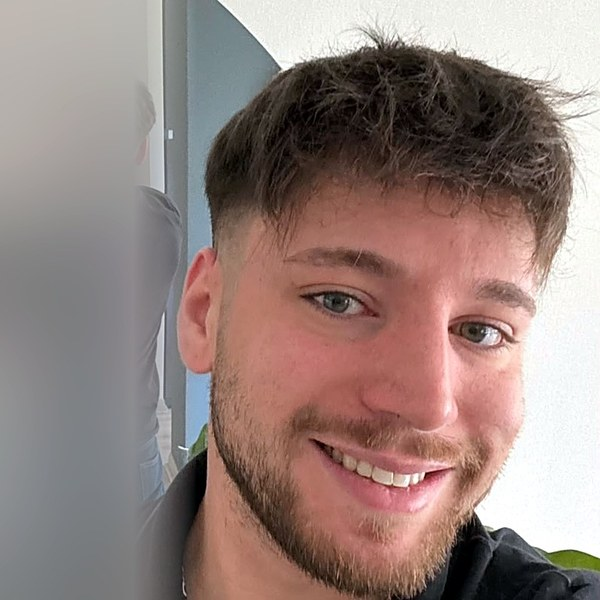
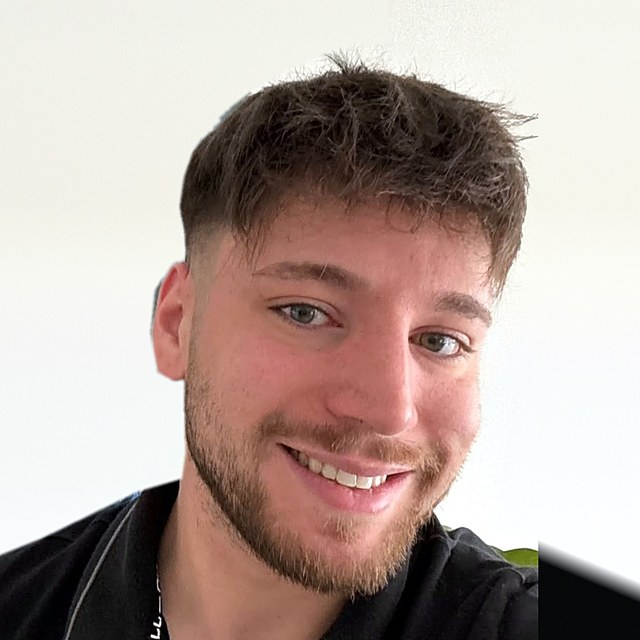
Sitio: foto limpia, correo, APIs, automatizacion, Summit y nuevo nombre del POS

diff --git a/index.html b/index.html
@@ -18,7 +18,7 @@
 <link rel="icon" type="image/png" sizes="32x32" href="favicon-32.png">
 <link rel="apple-touch-icon" href="favicon-192.png">
 <script type="application/ld+json">
-{"@context":"https://schema.org","@type":"Person","name":"Nicolás Brill","jobTitle":"Ingeniero Informático","url":"https://nibrill.github.io/","image":"https://nibrill.github.io/nicolas.jpg","sameAs":["https://github.com/nibrill","https://www.linkedin.com/in/nicolas-brill","https://coreconsulting.cl"],"worksFor":{"@type":"Organization","name":"Core Consulting","url":"https://coreconsulting.cl"},"address":{"@type":"PostalAddress","addressCountry":"CL"},"knowsAbout":["Python","Django","Angular","Ionic","Laravel","PostgreSQL","MySQL","Oracle PL/SQL","Inteligencia Artificial"]}
+{"@context":"https://schema.org","@type":"Person","name":"Nicolás Brill","jobTitle":"Ingeniero Informático","url":"https://nibrill.github.io/","email":"mailto:contacto@coreconsulting.cl","image":"https://nibrill.github.io/nicolas.jpg","sameAs":["https://github.com/nibrill","https://www.linkedin.com/in/nicolas-brill","https://coreconsulting.cl"],"worksFor":{"@type":"Organization","name":"Core Consulting","url":"https://coreconsulting.cl"},"address":{"@type":"PostalAddress","addressCountry":"CL"},"knowsAbout":["APIs REST","Automatización de procesos","Python","Django","Angular","Ionic","Laravel","PostgreSQL","MySQL","Oracle PL/SQL","Inteligencia Artificial"]}
 </script>
 <script>
 try{var t=localStorage.getItem('theme');if(t==='light'||t==='dark')document.documentElement.setAttribute('data-theme',t)}catch(e){}
@@ -91,7 +91,7 @@ h1 em{font-style:normal;background:linear-gradient(90deg,var(--link),var(--accen
 .btn.small{padding:9px 18px;font-size:.92rem;border-radius:10px}
 .hero-photo{position:relative;width:min(330px,70vw);aspect-ratio:1;justify-self:center}
 .hero-photo .me{width:100%;height:100%;object-fit:cover;border-radius:50%;border:4px solid var(--accent);box-shadow:0 0 0 12px var(--glow),0 30px 80px -24px var(--accent)}
-.hero-photo .badge-logo{position:absolute;right:-4px;bottom:8px;width:88px;background:#fff;border-radius:22px;padding:12px;box-shadow:0 14px 30px -8px rgba(0,0,0,.45)}
+.hero-photo .badge-logo{position:absolute;right:-6px;bottom:-2px;width:74px;background:#fff;border-radius:22px;padding:12px;box-shadow:0 14px 30px -8px rgba(0,0,0,.45)}
 .hero-photo .chip{position:absolute;left:-10px;top:14%;background:var(--card);border:1px solid var(--cardb);border-radius:12px;padding:8px 12px;font-size:.8rem;font-weight:600;box-shadow:0 12px 30px -14px rgba(0,0,0,.5)}
 .hero-photo .chip.b{left:auto;right:-14px;top:auto;bottom:34%}
 
@@ -111,6 +111,7 @@ section.alt{background:var(--bg2)}
 h2{font-size:clamp(1.8rem,4vw,2.6rem);margin:8px 0 14px;letter-spacing:-.02em;line-height:1.15;font-weight:800}
 .sub{color:var(--muted);max-width:640px;margin:0 0 40px;font-size:1.05rem}
 .grid{display:grid;grid-template-columns:repeat(auto-fit,minmax(280px,1fr));gap:18px}
+.grid.three{grid-template-columns:repeat(auto-fit,minmax(290px,1fr))}
 .grid.four{grid-template-columns:repeat(auto-fit,minmax(230px,1fr))}
 .card{background:var(--card);border:1px solid var(--cardb);border-radius:18px;padding:26px;transition:transform .25s,border-color .25s,box-shadow .25s}
 .card:hover{transform:translateY(-4px);border-color:var(--accent);box-shadow:0 20px 44px -22px var(--accent)}
@@ -138,6 +139,9 @@ a.card{color:inherit;display:block}
 .card.proj:hover .thumb img{transform:scale(1.05)}
 .kind{position:absolute;left:12px;top:12px;font-size:.72rem;font-weight:700;letter-spacing:.06em;padding:4px 12px;border-radius:99px;background:rgba(7,13,28,.8);color:#fff;backdrop-filter:blur(6px)}
 .lic{position:absolute;right:12px;top:12px;font-size:.72rem;font-weight:700;padding:4px 10px;border-radius:99px;background:rgba(53,214,160,.9);color:#04281c}
+.thumb.nopic{display:grid;place-items:center;background:linear-gradient(135deg,#0a1226,#1e4a8a 60%,#2a78e4)}
+.mtn{font-size:4.2rem;filter:drop-shadow(0 8px 20px rgba(0,0,0,.4))}
+.lic.own{background:rgba(124,196,255,.92);color:#0a1226}
 .pbody{padding:22px;display:flex;flex-direction:column;flex:1}
 .pbody p{flex:1}
 .pbtns{display:flex;gap:10px;margin-top:18px;flex-wrap:wrap}
@@ -219,19 +223,17 @@ footer{border-top:1px solid var(--cardb);padding:44px 0 30px;color:var(--muted);
     <div>
       <span class="eyebrow"><i></i> Disponible para proyectos</span>
       <h1>Nicolás <em>Brill</em></h1>
-      <p class="role">Ingeniero Informático <span>· Fundador de Core Consulting</span></p>
-      <p class="lead">Convierto procesos de negocio en software: <b>sistemas de gestión, aplicaciones web, móviles y de escritorio</b>, con bases de datos sólidas y <b>la IA como ventaja</b> para entregar más rápido y con mejor calidad.</p>
+      <p class="role">Ingeniero Informático <span>· Fundador de Core Consulting · Creador de Summit</span></p>
+      <p class="lead">Convierto procesos de negocio en software: <b>sistemas de gestión, aplicaciones web, móviles y de escritorio</b>, con <b>APIs, procesos automatizados</b>, bases de datos sólidas y <b>la IA como ventaja</b> para entregar más rápido y con mejor calidad.</p>
       <div class="btns">
-        <a class="btn primary" href="#contacto">Hablemos →</a>
+        <a class="btn primary" href="mailto:contacto@coreconsulting.cl">Escríbeme →</a>
         <a class="btn" href="#proyectos">Ver proyectos</a>
         <a class="btn" href="https://github.com/nibrill" rel="noopener">GitHub</a>
       </div>
     </div>
     <div class="hero-photo">
       <img class="me" src="nicolas.jpg" alt="Retrato de Nicolás Brill" width="330" height="330" fetchpriority="high">
-      <span class="chip">🐍 Python · SQL</span>
-      <span class="chip b">🤖 IA aplicada</span>
-      <img class="badge-logo" src="mark.png" alt="Logo de Core Consulting" width="64" height="71">
+      <img class="badge-logo" src="mark.png" alt="Logo de Core Consulting" width="52" height="58">
     </div>
   </div>
 </header>
@@ -252,11 +254,13 @@ footer{border-top:1px solid var(--cardb);padding:44px 0 30px;color:var(--muted);
       <h2>Software a medida, de punta a punta</h2>
       <p class="sub">Desde el modelo de datos hasta la interfaz: diseño, desarrollo, puesta en marcha y mantención.</p>
     </div>
-    <div class="grid four">
+    <div class="grid three">
       <div class="card rv"><div class="ico" aria-hidden="true">🧾</div><h3>Sistemas de gestión</h3><p>ERP, POS, inventario, facturación y reportes adaptados a cómo trabaja tu empresa.</p></div>
       <div class="card rv"><div class="ico" aria-hidden="true">🌐</div><h3>Aplicaciones web</h3><p>Plataformas y APIs con Angular, Django y Laravel, rápidas y mantenibles.</p></div>
       <div class="card rv"><div class="ico" aria-hidden="true">📱</div><h3>Apps móviles</h3><p>Aplicaciones híbridas con Ionic y Angular para iOS y Android desde un solo código.</p></div>
       <div class="card rv"><div class="ico" aria-hidden="true">🗄</div><h3>Bases de datos</h3><p>Modelamiento, optimización y PL/SQL en PostgreSQL, MySQL, SQL Server y Oracle.</p></div>
+      <div class="card rv"><div class="ico" aria-hidden="true">🔌</div><h3>APIs e integraciones</h3><p>Diseño y consumo de APIs REST para conectar sistemas, pasarelas, servicios externos y tus propias aplicaciones.</p></div>
+      <div class="card rv"><div class="ico" aria-hidden="true">⚙</div><h3>Procesos automatizados</h3><p>Flujos que trabajan solos: sincronización de datos, reportes, notificaciones y tareas repetitivas sin intervención manual.</p></div>
     </div>
   </div>
 </section>
@@ -265,8 +269,8 @@ footer{border-top:1px solid var(--cardb);padding:44px 0 30px;color:var(--muted);
   <div class="wrap">
     <div class="rv">
       <div class="kicker">Portafolio</div>
-      <h2>Proyectos públicos</h2>
-      <p class="sub">Sistemas que he desarrollado y dejo abiertos (MIT) para que cualquiera los use o aprenda de ellos.</p>
+      <h2>Proyectos</h2>
+      <p class="sub">Productos propios y sistemas open source (MIT) que he desarrollado y dejo abiertos para que cualquiera los use o aprenda de ellos.</p>
     </div>
     <div class="filters rv" role="group" aria-label="Filtrar proyectos">
       <button class="fbtn" type="button" data-f="all" aria-pressed="true">Todos</button>
@@ -276,13 +280,21 @@ footer{border-top:1px solid var(--cardb);padding:44px 0 30px;color:var(--muted);
       <button class="fbtn" type="button" data-f="db" aria-pressed="false">Bases de datos</button>
     </div>
     <div class="projects" id="projects">
-      <article class="card proj rv" data-k="desktop">
-        <a class="thumb" href="https://github.com/nibrill/corepos-community" rel="noopener"><img src="img/corepos.jpg" alt="Captura del panel de CorePOS Community" width="900" height="563" loading="lazy"><span class="kind">Escritorio</span><span class="lic">MIT</span></a>
+      <article class="card proj rv" data-k="mobile">
+        <div class="thumb nopic" aria-hidden="true"><span class="mtn">⛰</span><span class="kind">App móvil</span><span class="lic own">Creación propia</span></div>
         <div class="pbody">
-          <h3>CorePOS Community</h3>
+          <h3>Summit — app de trekking</h3>
+          <p>Aplicación de trekking creada por mí. Un producto propio, de la idea al desarrollo, pensado para quienes salen a la montaña.</p>
+          <div class="tags"><span class="tag">App móvil</span><span class="tag">Producto propio</span></div>
+        </div>
+      </article>
+      <article class="card proj rv" data-k="desktop">
+        <a class="thumb" href="https://github.com/nibrill/sistema-punto-de-venta-open-source-code" rel="noopener"><img src="img/corepos.jpg" alt="Captura del panel del Sistema Punto de Venta Open Source Code" width="900" height="563" loading="lazy"><span class="kind">Escritorio</span><span class="lic">MIT</span></a>
+        <div class="pbody">
+          <h3>Sistema Punto de Venta Open Source Code</h3>
           <p>Punto de venta de escritorio para pymes con IVA 19 % (Chile): ventas, caja, inventario, compras, reportes, roles y API para escáner móvil.</p>
           <div class="tags"><span class="tag">Python</span><span class="tag">PySide6</span><span class="tag">MySQL</span><span class="tag">FastAPI</span></div>
-          <div class="pbtns"><a class="btn small primary" href="https://github.com/nibrill/corepos-community" rel="noopener">Ver código</a></div>
+          <div class="pbtns"><a class="btn small primary" href="https://github.com/nibrill/sistema-punto-de-venta-open-source-code" rel="noopener">Ver código</a></div>
         </div>
       </article>
       <article class="card proj rv" data-k="web">
@@ -322,7 +334,7 @@ footer{border-top:1px solid var(--cardb);padding:44px 0 30px;color:var(--muted);
         </div>
       </article>
     </div>
-    <p class="note rv">Además desarrollo sistemas privados y a medida para clientes desde <a href="https://coreconsulting.cl" rel="noopener">Core Consulting</a>, incluida la edición comercial de CorePOS con facturación electrónica.</p>
+    <p class="note rv">Además desarrollo sistemas privados y a medida para clientes desde <a href="https://coreconsulting.cl" rel="noopener">Core Consulting</a>, incluida una edición comercial de mi sistema de punto de venta con facturación electrónica.</p>
   </div>
 </section>
 
@@ -358,7 +370,7 @@ footer{border-top:1px solid var(--cardb);padding:44px 0 30px;color:var(--muted);
       <div class="card rv"><h3>Apps de escritorio y móvil</h3><div class="tags"><span class="tag">PySide6 / Qt</span><span class="tag">Ionic</span><span class="tag">Apps offline-first</span><span class="tag">PyInstaller</span><span class="tag">Instaladores Windows</span></div></div>
       <div class="card rv"><h3>Datos y reportes</h3><div class="tags"><span class="tag">matplotlib</span><span class="tag">openpyxl</span><span class="tag">ReportLab</span><span class="tag">Exportación a Excel</span><span class="tag">Dashboards</span></div></div>
       <div class="card rv"><h3>DevOps y despliegue</h3><div class="tags"><span class="tag">Docker</span><span class="tag">Docker Compose</span><span class="tag">GitHub Actions</span><span class="tag">CI/CD</span><span class="tag">GitHub Pages</span><span class="tag">Linux</span></div></div>
-      <div class="card rv"><h3>Arquitectura y buenas prácticas</h3><div class="tags"><span class="tag">APIs REST</span><span class="tag">Roles y permisos</span><span class="tag">Seguridad web</span><span class="tag">Tests automáticos</span><span class="tag">Documentación</span></div></div>
+      <div class="card rv"><h3>Arquitectura y buenas prácticas</h3><div class="tags"><span class="tag">APIs REST</span><span class="tag">Integración de APIs</span><span class="tag">Webhooks</span><span class="tag">Automatización de procesos</span><span class="tag">Tareas programadas</span><span class="tag">Roles y permisos</span><span class="tag">Seguridad web</span><span class="tag">Tests automáticos</span><span class="tag">Documentación</span></div></div>
       <div class="card rv"><h3>Herramientas</h3><div class="tags"><span class="tag">Git</span><span class="tag">GitHub</span><span class="tag">Entornos virtuales</span><span class="tag">Variables de entorno</span><span class="tag">Claude Code</span><span class="tag">IA generativa</span><span class="tag">Prompt engineering</span></div></div>
     </div>
   </div>
@@ -410,6 +422,7 @@ footer{border-top:1px solid var(--cardb);padding:44px 0 30px;color:var(--muted);
       <p class="sub">Cuéntame qué necesitas y vemos cómo hacerlo realidad.</p>
     </div>
     <div class="contact">
+      <a class="card rv" href="mailto:contacto@coreconsulting.cl"><div class="ico" aria-hidden="true">✉</div><div><h3>Correo</h3><p>contacto@coreconsulting.cl</p></div></a>
       <a class="card rv" href="https://coreconsulting.cl" rel="noopener"><div class="ico" aria-hidden="true">🏢</div><div><h3>Core Consulting</h3><p>coreconsulting.cl</p></div></a>
       <a class="card rv" href="https://www.linkedin.com/in/nicolas-brill" rel="noopener"><div class="ico" aria-hidden="true">🔗</div><div><h3>LinkedIn</h3><p>in/nicolas-brill</p></div></a>
       <a class="card rv" href="https://github.com/nibrill" rel="noopener"><div class="ico" aria-hidden="true">💻</div><div><h3>GitHub</h3><p>github.com/nibrill</p></div></a>
@@ -426,7 +439,7 @@ footer{border-top:1px solid var(--cardb);padding:44px 0 30px;color:var(--muted);
         <div>Ingeniero Informático · Fundador de Core Consulting</div>
       </div>
       <div class="flinks">
-        <a href="#proyectos">Proyectos</a><a href="#ia">IA</a><a href="#stack">Tecnologías</a><a href="https://github.com/nibrill" rel="noopener">GitHub</a><a href="https://www.linkedin.com/in/nicolas-brill" rel="noopener">LinkedIn</a><a href="https://coreconsulting.cl" rel="noopener">Core Consulting</a>
+        <a href="mailto:contacto@coreconsulting.cl">contacto@coreconsulting.cl</a><a href="#proyectos">Proyectos</a><a href="#ia">IA</a><a href="#stack">Tecnologías</a><a href="https://github.com/nibrill" rel="noopener">GitHub</a><a href="https://www.linkedin.com/in/nicolas-brill" rel="noopener">LinkedIn</a><a href="https://coreconsulting.cl" rel="noopener">Core Consulting</a>
       </div>
     </div>
     <div class="copy"><span>© 2026 Nicolás Brill</span><span>Hecho en Chile 🇨🇱</span></div>
